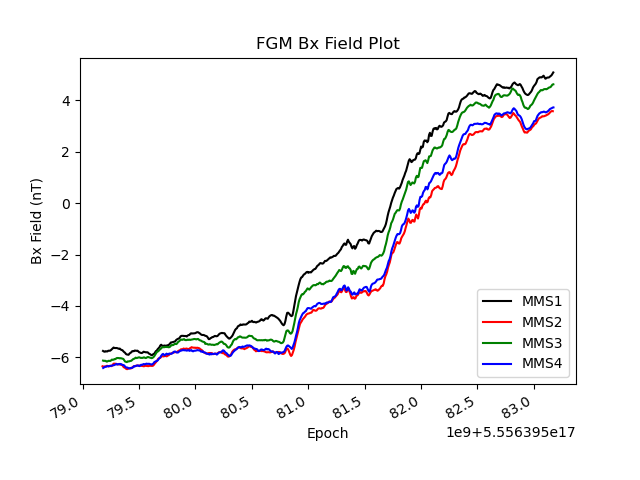
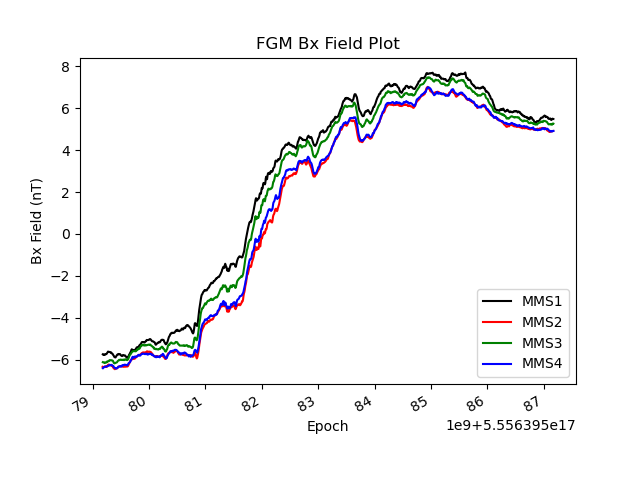
prevented overwriting

diff --git a/Scripts/fgm.py b/Scripts/fgm.py
@@ -170,11 +170,11 @@ def FGManalysis(period, plotPath, FFTpath):
     plt.grid()
     plt.savefig(FFTpath)
 
-    plt.show()
+    plt.close('all')
 
 period = [] #start min, start sec, stop min, stop sec
 
-# FGManalysis([18, 29, 18, 37], "./FGMresults/period.png", "./FGMresults/periodFFT.png")
+FGManalysis([18, 29, 18, 37], "./FGMresults/period.png", "./FGMresults/periodFFT.png")
 FGManalysis([18, 29, 18, 33], "./FGMresults/1-2period.png", "./FGMresults/1-2periodFFT.png")
 FGManalysis([18, 33, 18, 37], "./FGMresults/2-2period.png", "./FGMresults/2-2periodFFT.png")
 # FGManalysis([18, 29, 18, 31], "./FGMresults/1-4period.png", "./FGMresults/1-4periodFFT.png")
